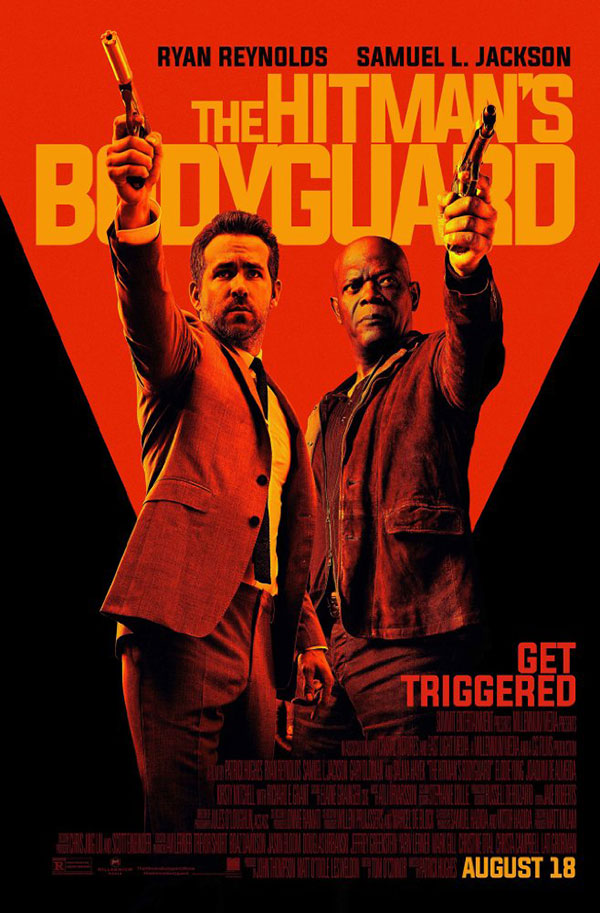
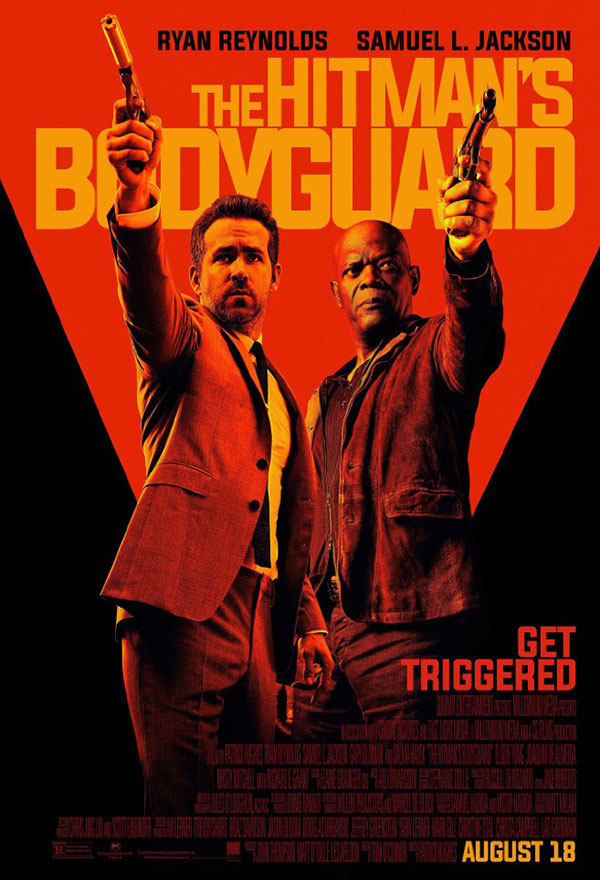
Added review for Wonder Woman (2017) and Temple (2017). All poster images are now 600x880. All reviews come with duration and download size.

diff --git a/content/posts/film-wonder-woman-2017.md b/content/posts/film-wonder-woman-2017.md
@@ -1,0 +1,20 @@
+---
+title: "Wonder Woman (2017)"
+date: 2017-09-05T11:20:48+08:00
+---
+
+<img src="/img/poster/film-wonder-woman-2017.jpg" alt="Poster" style="width: 300px;"/>
+
+**Sinopsis:** Seorang pilot cowok terdampar di pulau yang isinya cewek seksi semua. Bukannya betah, sang pilot malah ingin pulang. Diana, sang putri di kerajaan impian tersebut, ikut bersama pilot untuk membasmi kejahatan.
+
+**Pemeran Utama:** Gal Gadot, Chris Pine  
+**Sutradara:** Patty Jenkins  
+**Genre:** Action, Adventure, Fantasy  
+**Tahun:** 2017  
+**Rating IMDB:** 7.8 (dicek 5 Sep 2017)  
+**Durasi:** 2 jam 21 menit
+
+Kualitas | Ukuran
+-------- | ------
+1080     | 4.86 GB (STRiFE)
+720      | 4.12 GB (FGT)

diff --git a/content/posts/film-temple-2017.md b/content/posts/film-temple-2017.md
@@ -1,0 +1,20 @@
+---
+title: "Temple (2017)"
+date: 2017-09-05T10:49:56+08:00
+---
+
+<img src="/img/poster/film-temple-2017.jpg" alt="Poster" style="width: 300px;"/>
+
+**Sinopsis:** Dua cowok, satu cewek, banyak hantu. Tiga turis kurang kerjaan dari Amerika Serikat mendaki bukit di Jepang untuk mencari kuil tua. Setelah dikejar-kejar hantu, mereka menyesal.
+
+**Pemeran Utama:** Logan Huffman, Brandon Sklenar, Natalia Warner  
+**Sutradara:** Michael Barrett  
+**Genre:** History, Horror  
+**Tahun:** 2017  
+**Rating IMDB:** 3.8 (dicek 5 Sep 2017)  
+**Durasi:** 1 jam 18 menit
+
+Kualitas | Ukuran
+-------- | ------
+1080     | 2.72 GB (FGT)
+720      | 2.50 GB (FGT)

diff --git a/content/posts/film-the-hitman-s-bodyguard-2017.md b/content/posts/film-the-hitman-s-bodyguard-2017.md
@@ -11,4 +11,10 @@ date: 2017-09-04T17:39:34+08:00
 **Sutradara:** Patrick Hughes  
 **Genre:** Action, Comedy  
 **Tahun:** 2017  
-**Rating IMDB:** 7.0 (dicek 4 Sep 2017)
+**Rating IMDB:** 7.0 (dicek 4 Sep 2017)  
+**Durasi:** 1 jam 58 menit
+
+Kualitas | Ukuran
+-------- | ------
+1080     | 6.37 GB (NOGRP)
+720      | 3.46 GB (FGT)
